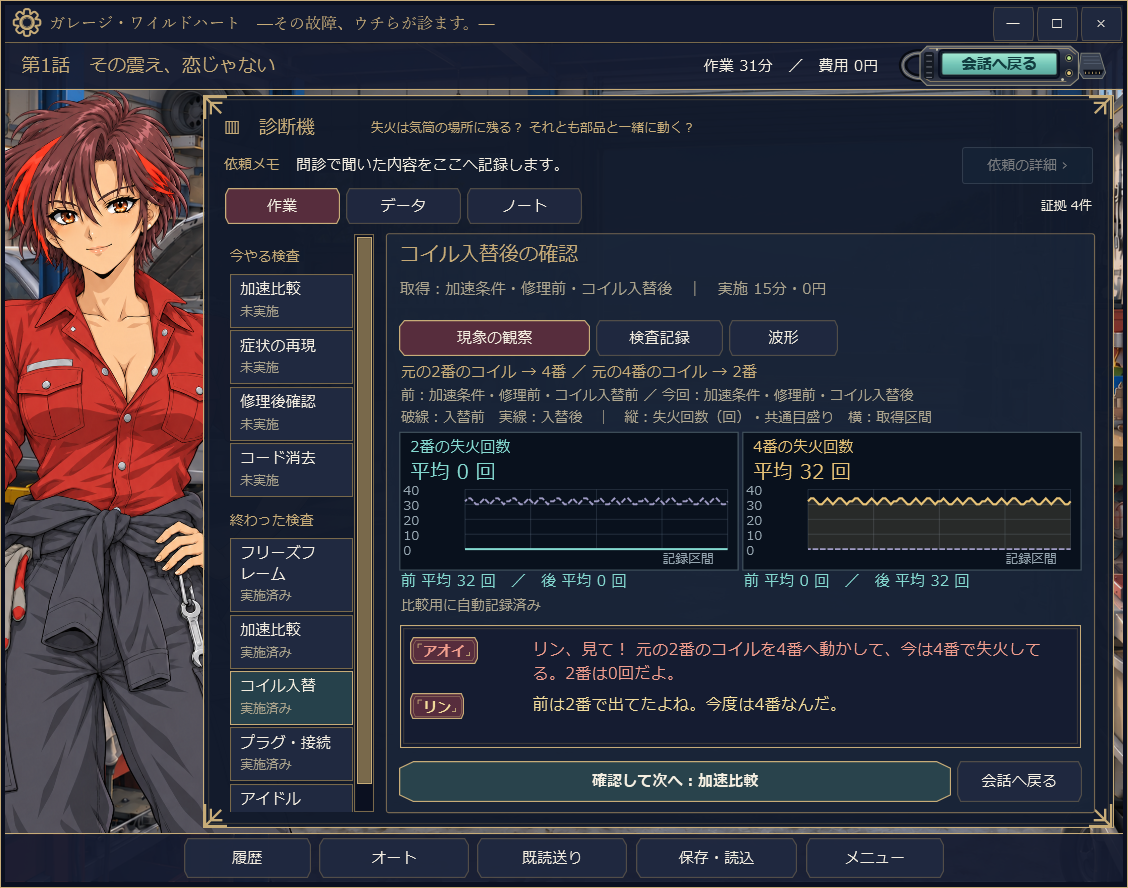
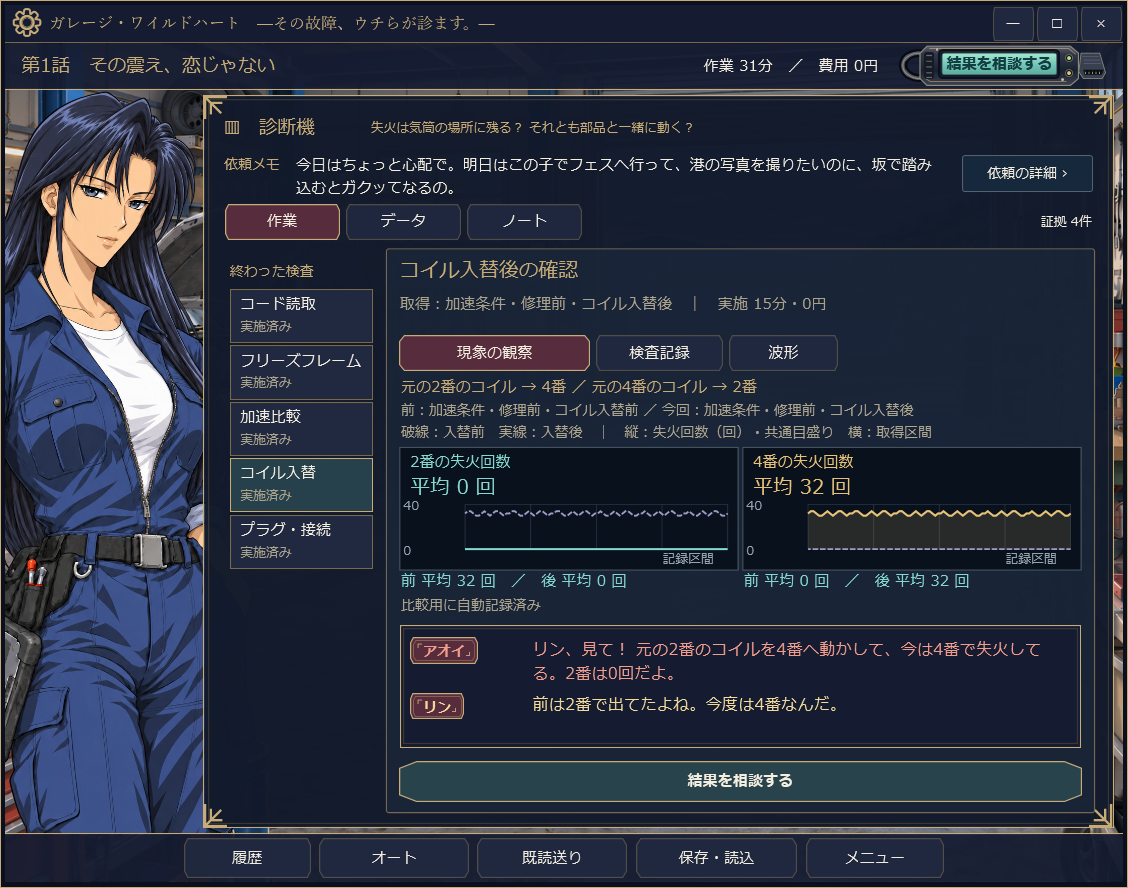
Publish v1.10.34 guides and verified screenshots [skip ci] [skip actions]

diff --git a/README.md b/README.md
@@ -12,14 +12,14 @@
 
 **Windows 64bit版 / 日本語 / オフラインで遊べます。**
 
-- **[ゲームをダウンロード（v1.10.33・ZIP・約96 MB）](https://github.com/mezon-web/GarageWildHeart-Releases/releases/download/v1.10.33/GarageWildHeart-1.10.33-win-x64.zip)**
-- [遊び方](遊び方.md) · [更新内容](https://github.com/mezon-web/GarageWildHeart-Releases/releases/tag/v1.10.33)
+- **[ゲームをダウンロード（v1.10.34・ZIP・約96 MB）](https://github.com/mezon-web/GarageWildHeart-Releases/releases/download/v1.10.34/GarageWildHeart-1.10.34-win-x64.zip)**
+- [遊び方](遊び方.md) · [更新内容](https://github.com/mezon-web/GarageWildHeart-Releases/releases/tag/v1.10.34)
 
 ![ガレージ・ワイルドハートのタイトル画面](images/title.png)
 
 ## 今回の更新
 
-修理候補の右上からノートを開き、証拠を読み返して同じ候補へ戻れるようにしました。診断ノートの配置とコイルの位置表示も整理し、タイトル画像を更新しています。
+自分で調べて見立てを考えやすいよう、会話と診断画面を整理しました。自分の回答に合う振り返り、ノートから修理へ進む流れ、証拠の役割の表示を改善しています。第3話の確認方針も、提案するか先輩と整理するかの2択になりました。
 
 ## どんなゲーム？
 
@@ -55,6 +55,18 @@
 
 ![取得した証拠と観察内容を読み返す診断ノート](images/diagnostic-notebook.png)
 
+### 自分の見立てを振り返る
+
+自分が話した予想や見立てを、実際に調べたことと照らし合わせて読み返せます。あとから観察が増えても、そのときの回答は残ります。
+
+![自分の回答と観察を照らし合わせる見立ての振り返り](images/reasoning-review.png)
+
+### 修理の効果をどう確かめる？
+
+何を確認すれば安心して納車できるか、自分で方針を提案したり、先輩と一緒に整理したりできます。
+
+![修理後の確認方針を相談する第3話の選択肢](images/verification-plan.png)
+
 ### 証拠を見ながら修理を相談
 
 部品の役割と費用を見比べ、気になったら右上の「ノートを見る」から証拠を確認できます。ノートを閉じても、会話や修理は進みません。
@@ -75,13 +87,13 @@
 
 ## 以前の版から遊んでいる方へ
 
-ゲームを終了してから、新しいZIPを別のフォルダーへ展開してください。v1.10.25以降のセーブデータで続きから遊べます。v1.10.24以前の途中セーブは引き継げないため、「はじめから」で開始してください。
+ゲームを終了してから、新しいZIPを別のフォルダーへ展開してください。今回は会話構成を改訂したため、「はじめから」で開始してください。以前の途中セーブの互換性は対応対象外です。保存ファイルの変換・削除は行いません。
 
 ## 詳しい案内
 
 - [遊び方・保存データ・ファイルの確認](遊び方.md)
-- [v1.10.33の更新内容](release-notes/v1.10.33.md) · [過去の配布版](https://github.com/mezon-web/GarageWildHeart-Releases/releases)
-- [動作確認について](検証.md) · [ZIPのSHA-256](https://github.com/mezon-web/GarageWildHeart-Releases/releases/download/v1.10.33/GarageWildHeart-1.10.33-win-x64.zip.sha256)
+- [v1.10.34の更新内容](release-notes/v1.10.34.md) · [過去の配布版](https://github.com/mezon-web/GarageWildHeart-Releases/releases)
+- [動作確認について](検証.md) · [ZIPのSHA-256](https://github.com/mezon-web/GarageWildHeart-Releases/releases/download/v1.10.34/GarageWildHeart-1.10.34-win-x64.zip.sha256)
 
 本作の車両や診断値は架空のものです。実車の整備には使用しないでください。
 

diff --git a/release-notes/v1.10.34.md b/release-notes/v1.10.34.md
@@ -1,0 +1,15 @@
+# GarageWildHeart v1.10.34
+
+2026年11月5日。
+
+調べたことから自分で見立てを考えやすいよう、会話と診断画面を整えました。
+
+- 見立ての振り返りは、自分が選んだ回答と取得した観察に合う内容へ。選んでいない仮説を指摘しません。
+- 第1話は、ノートを読み終えたら修理候補へ進み、同じ相談を繰り返さない流れにしました。
+- 第2話は、数値の読み方を先に、原因の解釈を回答後に説明します。測定前の予想と、あとから見立てを更新する流れも残しています。
+- 第3話の修理後方針は、始動と吸引停止を提案するか、レイと項目を整理するかの2択にしました。
+- 診断画面の重複した説明と補助枠、戻る操作名を整理しました。修理案と診断レポートには、各証拠が何を調べた観察かを添えています。
+
+修理対象・費用・採点、画像・音楽は維持しています。会話構成を改訂したため、今回は「はじめから」で開始してください。以前の途中セーブの互換性は対応対象外です。既存の保存ファイルは変換・削除しません。保存形式は4です。
+
+Windows 64bit向け。ZIPをすべて展開し、`GarageWildHeart.exe` を開いてください。**.NETは同梱していません。[.NET 10 Desktop Runtime x64](https://dotnet.microsoft.com/ja-jp/download/dotnet/10.0)が必要です。** `GameData` も実行ファイルと同じ場所に置いてください。インストール後はオフラインで遊べます。

diff --git a/検証.md b/検証.md
@@ -1,3 +1,15 @@
+# v1.10.34の確認
+
+Windows上で、ZIPを別フォルダーへ展開し、起動・全3話・修理・各結末・保存再開を確認しました。Core 1,320件、解凍版の実WPF15系統6,263件が成功しています。
+
+通常／最小サイズ、標準／大きい本文、100／150／200%相当を確認。見立ての振り返り、ノートから修理候補への移動、2択の確認方針、波形と固定操作欄も確認しています。素材40件とmanifest8件を照合し、配布ファイルの個人情報検査は検出0。通常の保存・設定3ファイルは検証前後で一致しました。専用Windowsデスクトップを使い、操作中の画面を切り替えていません。
+
[1 lines of base64/hex data omitted]
+
+物理マウス・実OSのDPI変更・全分岐の人手通読・長時間耐久・聴感評価は未実施です。GitHub Actionsは使用していません。
+
+---
+
 # v1.10.33の確認
 
 Windows上で、作成したZIPを別フォルダーへ展開し、起動から保存・再開まで確認しました。Core 1,314件、解凍した実WPFアプリ15系統 6,310件の自動検証が成功しています。
